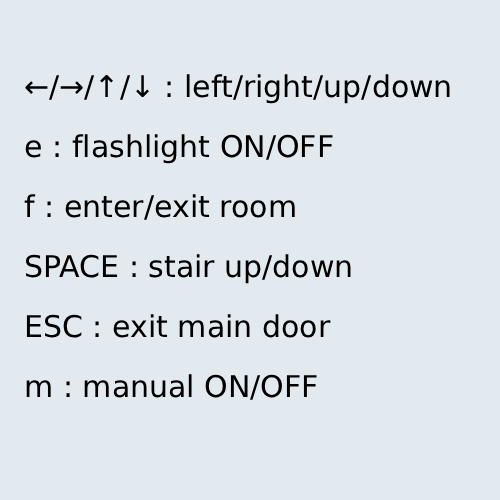
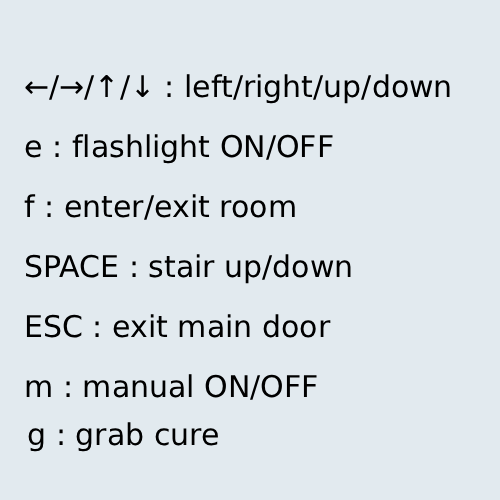
백신 구현 성공

Changed region(s): [[0.15, 0.84, 0.45, 0.9], [0.06, 0.84, 0.09, 0.9]]

diff --git a/Python_Data/reporter.py b/Python_Data/reporter.py
@@ -1,5 +1,7 @@
+import random
+
 from pico2d import *
-from sdl2 import SDL_KEYDOWN, SDLK_ESCAPE, SDLK_SPACE, SDLK_RIGHT, SDL_KEYUP, SDLK_LEFT, SDLK_UP, SDLK_DOWN, SDLK_e, SDLK_f
+from sdl2 import SDL_KEYDOWN, SDLK_ESCAPE, SDLK_SPACE, SDLK_RIGHT, SDL_KEYUP, SDLK_LEFT, SDLK_UP, SDLK_DOWN, SDLK_e, SDLK_f, SDLK_g
 
 import game_world
 import game_framework
@@ -84,12 +86,18 @@ class Run:
             self.reporter.image.clip_draw(int(self.reporter.frame) * 75, 0, 50, 100, self.reporter.x,self.reporter.y)
 
 
+def handle_collision(group, other):
+    if group == 'boy:zombie':
+        import game_framework
+        game_framework.quit()
+
 
 class Reporter:
     def __init__(self):
         self.image = load_image('Player_Sheet.png')
         self.image2 = load_image('FlashLight_ON.png')
         self.image3 = load_image('FlashLight_OFF.png')
+        self.image4 = load_image('Cure.png')
 
         self.font = load_font('ENCR10B.TTF', 16)
 
@@ -114,6 +122,12 @@ class Reporter:
         self.lab_exit = 0
         self.last_entered_door = 0
 
+        # 백신
+        self.cure_lab_id = random.choice([11,12])
+                                          #12, 13, 14, 21, 22, 23, 24])
+        self.cure_x = random.randint(400, 900)
+        self.cure_y = random.randint(400, 450)
+
         self.bgm = load_music('2DGP_BGM.mp3')
         self.bgm.set_volume(64)
         self.bgm.repeat_play()
@@ -132,7 +146,9 @@ class Reporter:
         )
 
 
-    def handle_collision(self):
+    def handle_internal_collision(self):
+        self.handle_lab_collision()
+
         if self.lab != 0:
             return
 
@@ -156,6 +172,23 @@ class Reporter:
         # 허용영역이 아니라면 → 이전 위치로 복귀
         if not allowed:
             self.x, self.y = self.prev_x, self.prev_y
+
+    def handle_lab_collision(self):
+        if self.lab == 0:
+            return
+
+        allowed = False
+
+        if 11 <= self.lab <= 14:
+            if 30 <= self.y <= 80 and 550 <= self.x <= 700:allowed = True
+            elif 80 <= self.y <= 500 and 330 <= self.x <= 950:allowed = True
+        elif 21 <= self.lab <= 24:
+            if 30 <= self.y <= 80 and 550 <= self.x <= 700:allowed = True
+            elif 70 <= self.y <= 500 and 310 <= self.x <= 980:allowed = True
+
+        if not allowed:
+            self.x, self.y = self.prev_x, self.prev_y
+
 
     def on_stairs(self):
         if play_mode.background.floor == 1:
@@ -232,6 +265,11 @@ class Reporter:
 
 
     def handle_event(self, event):
+        # 백신
+        if event.type == SDL_KEYDOWN and event.key == SDLK_g:
+            common.have_cure = 1
+            return
+
         # FlashLight Toggle ON/OFF
         if event.type == SDL_KEYDOWN and event.key == SDLK_e:
             self.flashlight ^= 1
@@ -352,7 +390,8 @@ class Reporter:
         self.prev_x, self.prev_y = self.x, self.y
         self.state_machine.update()
         import play_mode
-        self.handle_collision()
+        self.handle_lab_collision()
+        self.handle_internal_collision()
         self.on_stairs()
         self.enter_room()
         self.exit_main_door()
@@ -360,12 +399,13 @@ class Reporter:
 
     def draw(self):
         self.state_machine.draw()
-        self.font.draw(self.x - 60, self.y + 50, f'({self.x:.1f}, {self.y:.1f})', (255, 255, 0))
-        draw_rectangle(*self.get_bb())
+        # self.font.draw(self.x - 60, self.y + 50, f'({self.x:.1f}, {self.y:.1f})', (255, 255, 0))
+        #draw_rectangle(*self.get_bb())
 
 
         # 계단 사각형 테두리 그리기
         if self.lab == 0:
+            '''
             if play_mode.background.floor == 1:
                 draw_rectangle(play_mode.background.stair_1_x1,
                                play_mode.background.stair_1_y1,
@@ -376,6 +416,7 @@ class Reporter:
                                play_mode.background.stair_2_y1,
                                play_mode.background.stair_2_x2,
                                play_mode.background.stair_2_y2)
+            '''
 
             if self.he_is == 1:
                 if play_mode.background.floor == 1:
@@ -385,19 +426,19 @@ class Reporter:
 
             # 문 enter 테두리
             if play_mode.background.floor == 1:
-                draw_rectangle(90, 450, 185, 470)
-                draw_rectangle(265, 450, 360, 470)
-                draw_rectangle(875, 450, 965, 470)
-                draw_rectangle(1045, 450, 1140, 470)
+                #draw_rectangle(90, 450, 185, 470)
+                #draw_rectangle(265, 450, 360, 470)
+                #draw_rectangle(875, 450, 965, 470)
+                #draw_rectangle(1045, 450, 1140, 470)
                 if self.enter_door == 1:self.font.draw(60, 500, 'Press f to enter', (255, 255, 0))
                 elif self.enter_door == 2:self.font.draw(235, 500, 'Press f to enter', (255, 255, 0))
                 elif self.enter_door == 3:self.font.draw(840, 500, 'Press f to enter', (255, 255, 0))
                 elif self.enter_door == 4:self.font.draw(1010, 500, 'Press f to enter', (255, 255, 0))
             elif play_mode.background.floor == 2:
-                draw_rectangle(90, 450, 185, 470)
-                draw_rectangle(265, 450, 360, 470)
-                draw_rectangle(885, 450, 970, 470)
-                draw_rectangle(1055, 450, 1145, 470)
+                #draw_rectangle(90, 450, 185, 470)
+                #draw_rectangle(265, 450, 360, 470)
+                #draw_rectangle(885, 450, 970, 470)
+                #draw_rectangle(1055, 450, 1145, 470)
                 if self.enter_door == 5: self.font.draw(60, 500, 'Press f to enter', (255, 255, 0))
                 elif self.enter_door == 6:self.font.draw(235, 500, 'Press f to enter', (255, 255, 0))
                 elif self.enter_door == 7:self.font.draw(845, 500, 'Press f to enter', (255, 255, 0))
@@ -405,24 +446,29 @@ class Reporter:
 
             # 정문 테두리
             if play_mode.background.floor == 1:
-                draw_rectangle(570, 20, 665, 160)
+                #draw_rectangle(570, 20, 665, 160)
                 if self.main_door == 1:
                     self.font.draw(540, 140, 'Press ESC to exit', (0, 255, 0))
-
         else:
             # 연구실 테두리
             if self.lab_exit == 1: self.font.draw(550, 20, 'Press f to exit', (255, 255, 0))
-
+            '''
             if 11 <= self.lab <= 14:
                 draw_rectangle(535, 0, 720, 80)
                 draw_rectangle(305, 80, 975, 500)
             if 21 <= self.lab <= 24:
                 draw_rectangle(535, 0, 730, 80)
                 draw_rectangle(285, 40, 1000, 500)
+            '''
 
-        '''
         if self.flashlight == 1:
             self.image2.draw(self.x - 5, self.y + 35)
         elif self.flashlight == 0:
             self.image3.draw(self.x, self.y + 25)
-        '''
+
+        if self.lab != 0 and self.lab == self.cure_lab_id:
+            if common.have_cure != 1:
+                self.image4.clip_draw(0, 0, 400, 400, self.cure_x, self.cure_y, 50, 50)
+                if self.cure_x - 50 <= self.x <= self.cure_x + 50 and self.cure_y - 50 <= self.y <= self.cure_y + 50:
+                    self.font.draw(self.cure_x - 80, self.cure_y + 20, 'Press g to grab', (255, 255, 0))
+

diff --git a/Python_Data/zombie.py b/Python_Data/zombie.py
@@ -6,11 +6,12 @@ import game_framework
 import game_world
 from behavior_tree import BehaviorTree, Action, Sequence, Condition, Selector
 import common
+import Infected_mode
 
 
 # zombie Run Speed
 PIXEL_PER_METER = (10.0 / 0.3)  # 10 pixel 30 cm
-RUN_SPEED_KMPH = 5.0  # Km / Hour
+RUN_SPEED_KMPH = 3.0  # Km / Hour
 RUN_SPEED_MPM = (RUN_SPEED_KMPH * 1000.0 / 60.0)
 RUN_SPEED_MPS = (RUN_SPEED_MPM / 60.0)
 RUN_SPEED_PPS = (RUN_SPEED_MPS * PIXEL_PER_METER)
@@ -84,29 +85,6 @@ class Zombie:
 
 
     def draw(self):
-        '''
-        import common
-        if common.reporter is None: return
-        if common.reporter.lab == 0: return
-
-
-        lab = common.reporter.lab
-        in_lab = False
-
-        # 1층 연구실 내부 영역 체크
-        if 11 <= lab <= 14:
-            if 305 <= self.x <= 975 and 80 <= self.y <= 500:
-                in_lab = True
-
-        # 2층 연구실 영역
-        elif 21 <= lab <= 24:
-            if 285 <= self.x <= 1000 and 40 <= self.y <= 500:
-                in_lab = True
-
-        if not in_lab:
-            return
-        '''
-
         if self.state == 'Walk':
             frame_index = int(self.frame)
             current_direction = self.dir
@@ -125,8 +103,8 @@ class Zombie:
             else:
                 Zombie.image.clip_draw(sx, sy, 139, 200, self.x, self.y, 70, 100)
 
-            draw_rectangle(*self.get_bb())
-            draw_circle(self.x, self.y, int(5.0 * PIXEL_PER_METER), 255, 255, 255)
+            #draw_rectangle(*self.get_bb())
+            #draw_circle(self.x, self.y, int(5.0 * PIXEL_PER_METER), 255, 255, 255)
 
     def handle_event(self, event):
         pass
@@ -195,40 +173,13 @@ class Zombie:
         # 도착 판정
         if dist < PIXEL_PER_METER * r:
             self.state = 'Idle'
+            game_framework.change_mode(Infected_mode)
             return BehaviorTree.SUCCESS
 
         return BehaviorTree.RUNNING
 
 
-    def get_patrol_location(self):
-        # 여기를 채우시오.
-        self.tx, self.ty = self.patrol_locations[self.loc_no]
-        self.loc_no = (self.loc_no + 1) % len(self.patrol_locations)
-        return BehaviorTree.SUCCESS
-        pass
-
-
     def build_behavior_tree(self):
-        '''
-        # wander
-        wander_action = Action('랜덤 위치 설정', self.set_random_location)
-        wander_move = Action('랜덤 이동', self.move_to, 0.5)
-        wander = Sequence('배회', wander_action, wander_move)
-
-        # chase
-        chase_move = Action('추적 이동', self.move_to_reporter)
-
-        # 🔥 핵심: Condition을 Selector와 연결
-        root = Selector('root',
-                        Sequence('추격 시퀀스',
-                                 Condition('근접?', self.if_reporter_nearby, 5),
-                                 chase_move
-                                 ),
-                        wander
-                        )
-
-        self.bt = BehaviorTree(root)
-        '''
         a1 = Action('Set target location', self.set_target_location, 500, 50)
         a2 = Action('Move to', self.move_to)
         root = move_to_target_location = Sequence('Move to target location', a1, a2)

diff --git a/Python_Data/play_mode.py b/Python_Data/play_mode.py
@@ -6,6 +6,7 @@ from reporter import Reporter
 import game_world
 from zombie import Zombie
 import common
+import Safe_mode
 
 background = None
 
@@ -97,9 +98,10 @@ def handle_events():
     for event in event_list:
         if event.type == SDL_QUIT:
             game_framework.quit()
+        elif event.type == SDL_KEYDOWN and event.key == SDLK_ESCAPE and reporter.main_door == 1 and reporter.lab == 0 and common.have_cure == 1:
+            game_framework.change_mode(Safe_mode)
         elif event.type == SDL_KEYDOWN and event.key == SDLK_ESCAPE and reporter.main_door == 1 and reporter.lab == 0:
             game_framework.change_mode(title_mode)
-            return
         else:
             reporter.handle_event(event)
 
@@ -116,6 +118,8 @@ def init():
     common.reporter = Reporter()
     reporter = common.reporter
     game_world.add_object(common.reporter, 2)
+
+    game_world.add_collision_pair(reporter, zombie, 'boy:zombie')
 
 
 

diff --git a/Python_Data/common.py b/Python_Data/common.py
@@ -1,2 +1,3 @@
 reporter = None
 
+have_cure = 0
